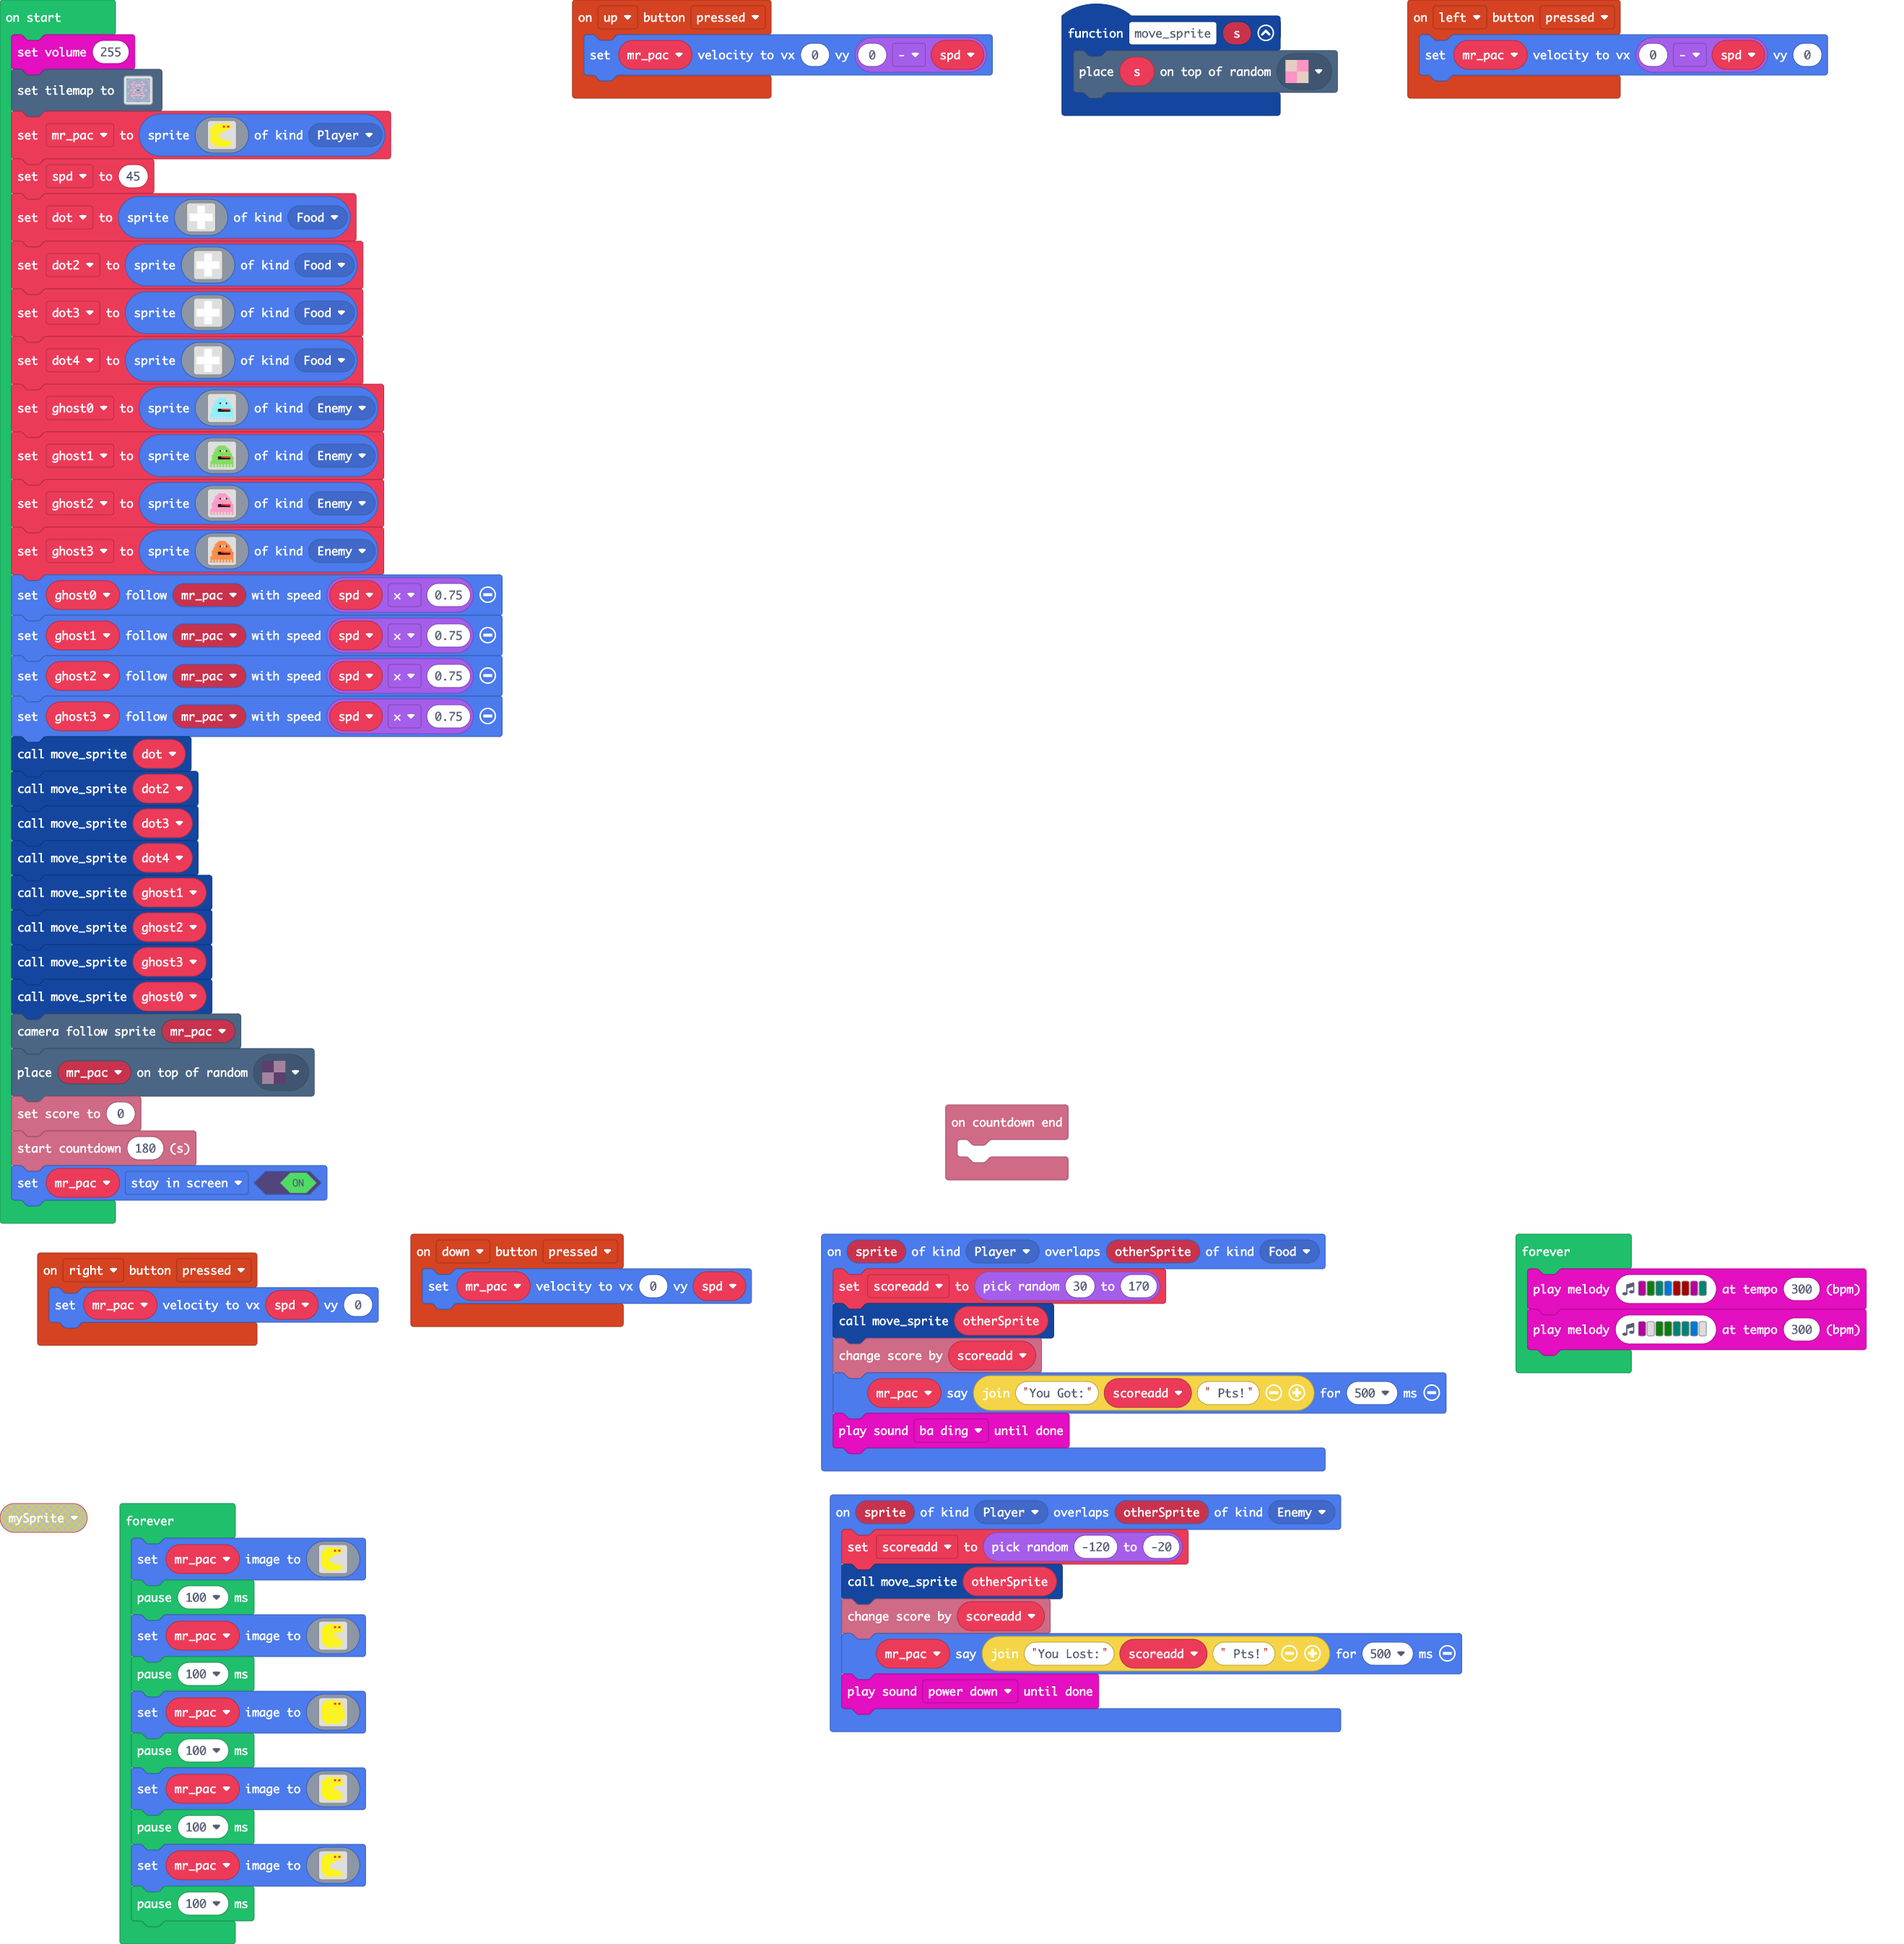
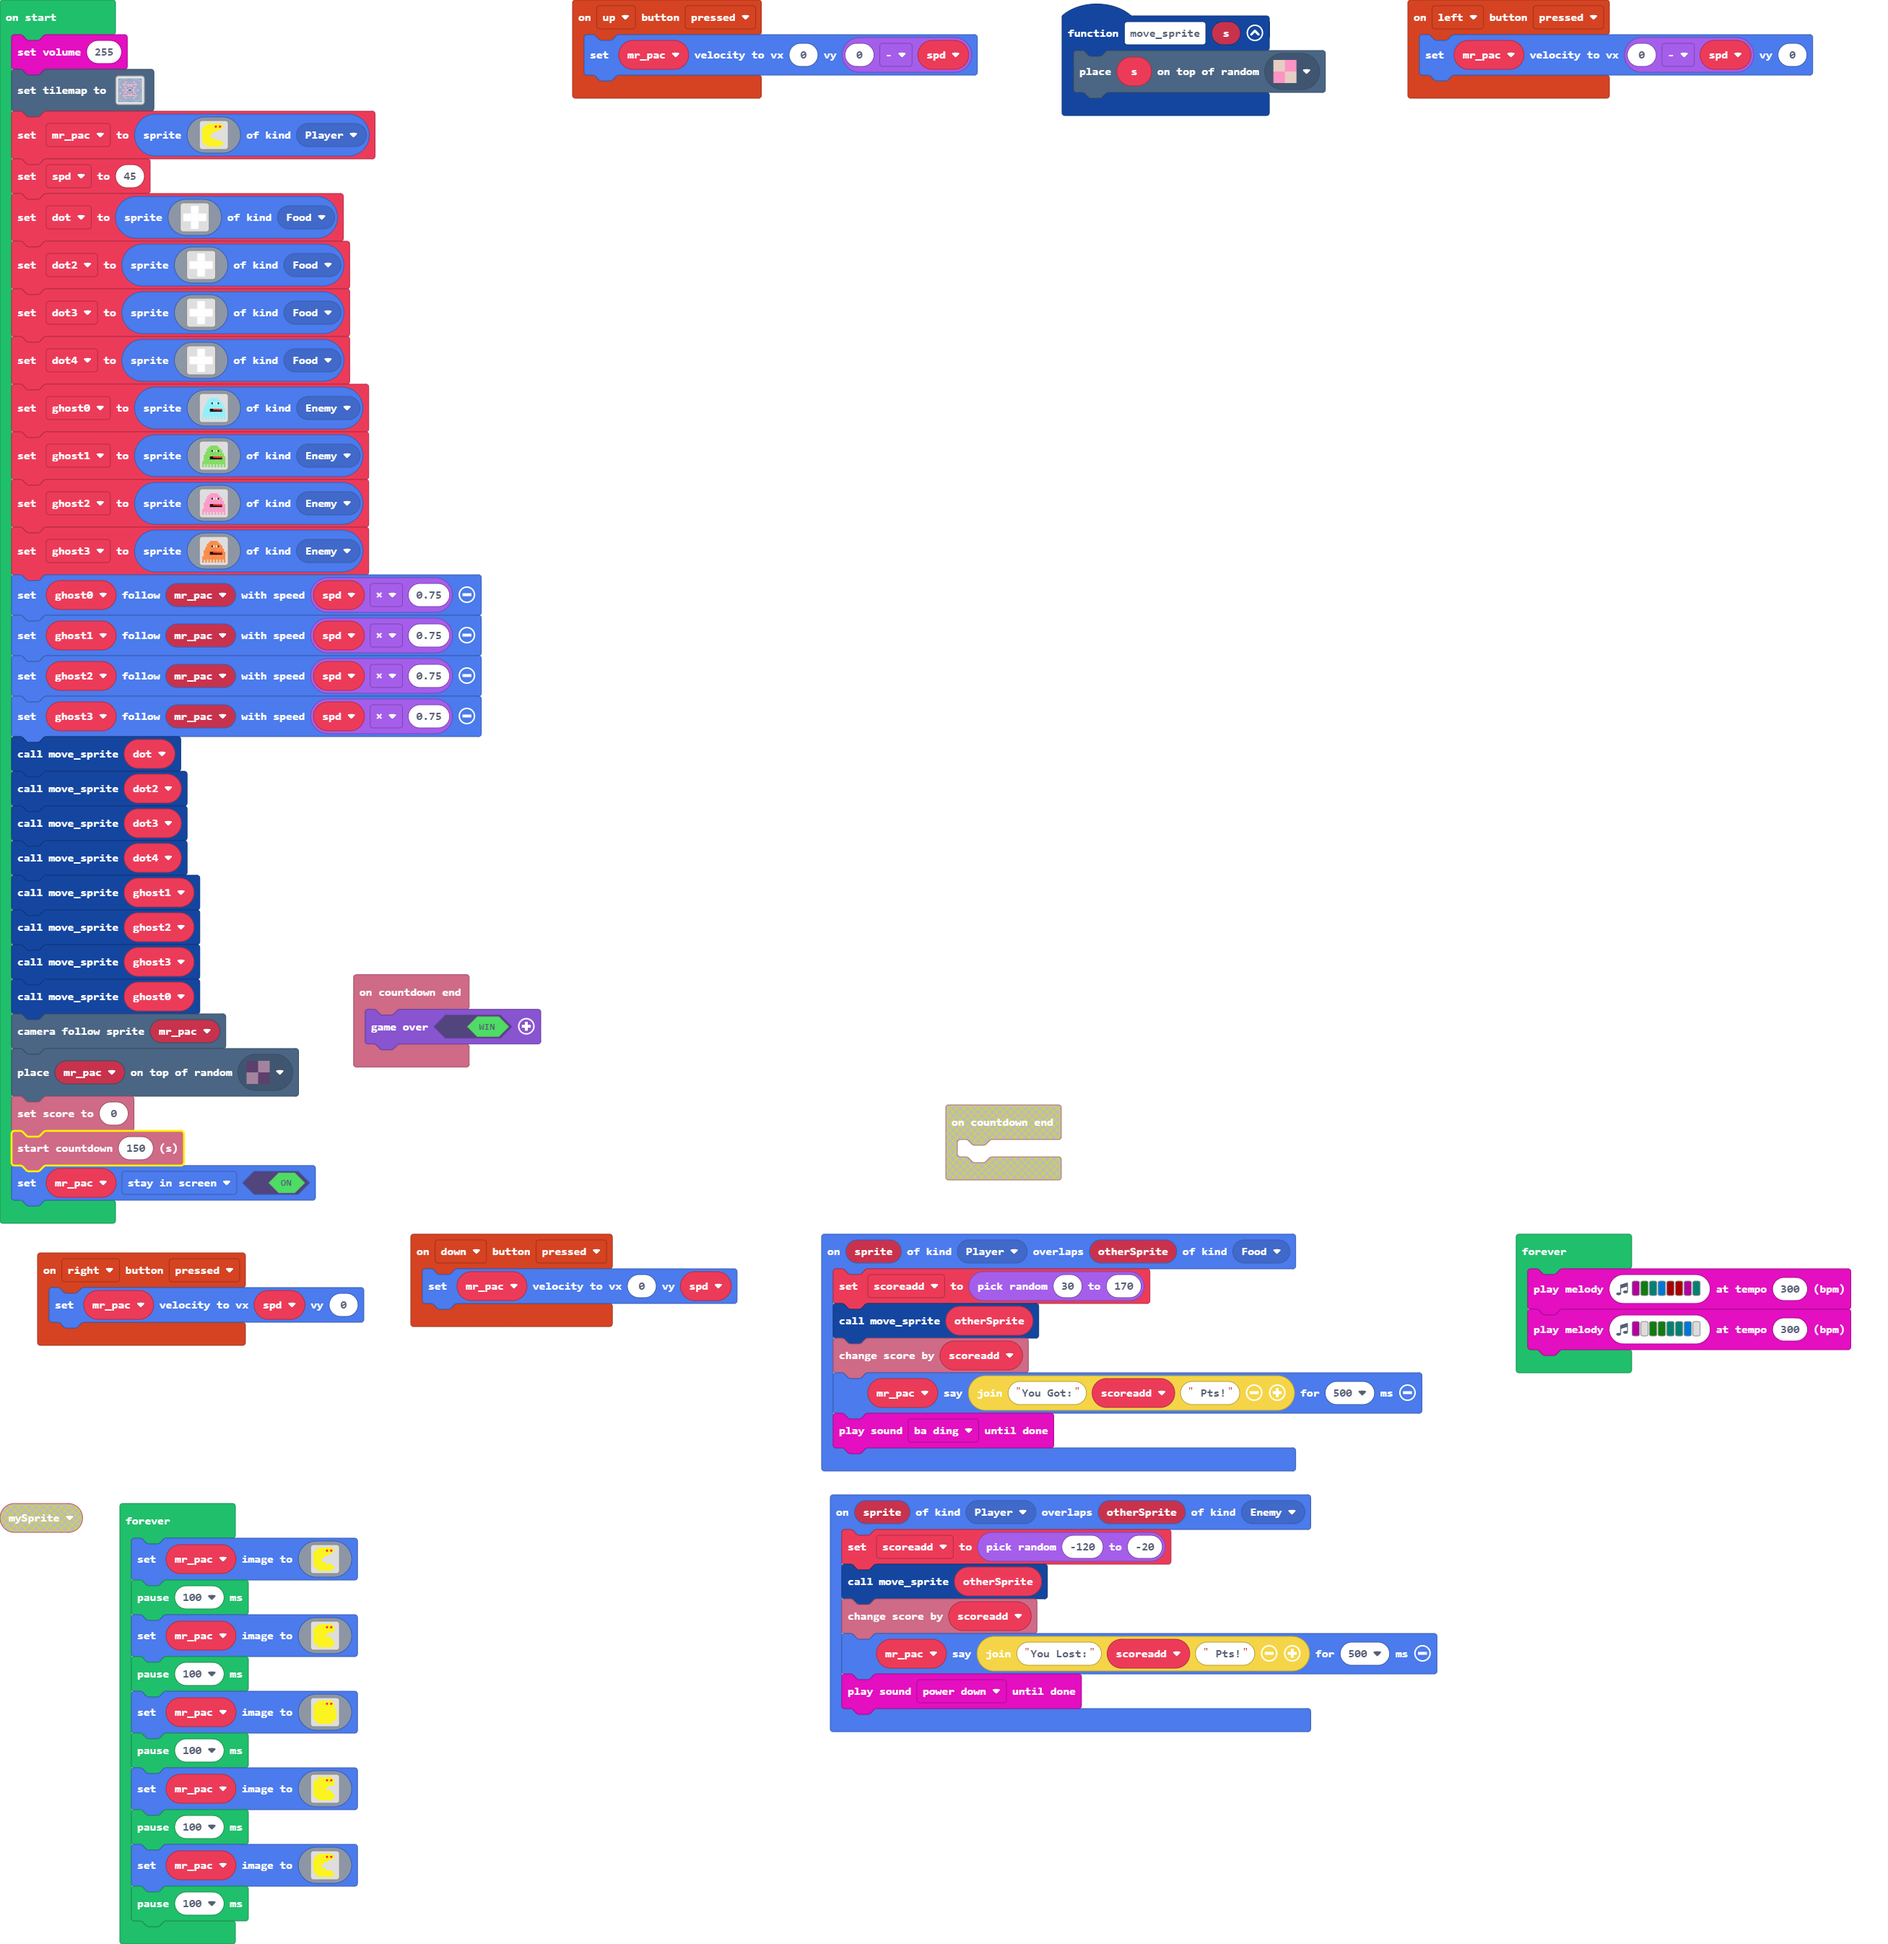
Update pxt.json, main.blocks, main.ts, tilemap.g.jres, tilemap.g.ts, images.g.jres, images.g.ts

diff --git a/tilemap.g.ts b/tilemap.g.ts
@@ -9,9 +9,10 @@ namespace myTiles {
     //% fixedInstance jres blockIdentity=images._tile
     export const tile3 = image.ofBuffer(hex``);
 
-    helpers.registerTilemapFactory(function(name: string) {
+    helpers._registerFactory("tilemap", function(name: string) {
         switch(helpers.stringTrim(name)) {
[1 lines of base64/hex data omitted]
+            case "level":
[1 lines of base64/hex data omitted]
 222222222222222222222222222222
 2............................2
 2..222222222222222222222222..2
@@ -42,8 +43,9 @@ namespace myTiles {
 2..222222222222222222222222..2
 2............................2
 222222222222222222222222222222
-`, [myTiles.transparency16,myTiles.tile2,myTiles.tile3,myTiles.tile1,myTiles.tile1], TileScale.Sixteen)
[1 lines of base64/hex data omitted]
+`, [myTiles.transparency16,myTiles.tile2,myTiles.tile3,myTiles.tile1,myTiles.tile1], TileScale.Sixteen);
+            case "level_0":
[1 lines of base64/hex data omitted]
 222222222222222222222222222222
 2............................2
 2..222222222222222222222222..2
@@ -74,7 +76,17 @@ namespace myTiles {
 2..222222222222222222222222..2
 2............................2
 222222222222222222222222222222
-`, [myTiles.transparency16,myTiles.tile2,myTiles.tile3,myTiles.tile1,myTiles.tile1], TileScale.Sixteen)
+`, [myTiles.transparency16,myTiles.tile2,myTiles.tile3,myTiles.tile1,myTiles.tile1], TileScale.Sixteen);
+        }
+        return null;
+    })
+
+    helpers._registerFactory("tile", function(name: string) {
+        switch(helpers.stringTrim(name)) {
+            case "transparency16":return transparency16;
+            case "tile1":return tile1;
+            case "tile2":return tile2;
+            case "tile3":return tile3;
         }
         return null;
     })

diff --git a/images.g.ts b/images.g.ts
@@ -1,0 +1,184 @@
+// Auto-generated code. Do not edit.
+namespace myImages {
+
+    helpers._registerFactory("image", function(name: string) {
+        switch(helpers.stringTrim(name)) {
+            case "image1":return img`
+. . 5 5 5 5 5 5 5 . . 
+. 5 5 5 5 5 2 5 2 5 . 
+5 5 5 5 5 5 5 5 5 . . 
+5 5 5 5 5 5 5 . . . . 
+5 5 5 5 5 . . . . . . 
+5 5 5 5 . . . . . . . 
+5 5 5 5 . . . . . . . 
+5 5 5 5 5 5 . . . . . 
+5 5 5 5 5 5 5 5 5 . . 
+. 5 5 5 5 5 5 5 5 5 . 
+. . 5 5 5 5 5 5 5 . . 
+`;
+            case "image2":return img`
+. . 5 5 5 5 5 5 5 . . 
+. 5 5 5 5 5 2 5 2 5 . 
+5 5 5 5 5 5 5 5 5 5 . 
+5 5 5 5 5 5 5 5 5 5 . 
+5 5 5 5 5 5 5 . . . . 
+5 5 5 5 5 5 . . . . . 
+5 5 5 5 5 5 5 5 . . . 
+5 5 5 5 5 5 5 5 5 . . 
+5 5 5 5 5 5 5 5 5 5 . 
+. 5 5 5 5 5 5 5 5 5 . 
+. . 5 5 5 5 5 5 5 . . 
+`;
+            case "image3":return img`
+. . 5 5 5 5 5 5 5 . . 
+. 5 5 5 5 5 2 5 2 5 . 
+5 5 5 5 5 5 5 5 5 . . 
+5 5 5 5 5 5 5 . . . . 
+5 5 5 5 5 . . . . . . 
+5 5 5 5 . . . . . . . 
+5 5 5 5 . . . . . . . 
+5 5 5 5 5 5 . . . . . 
+5 5 5 5 5 5 5 5 5 . . 
+. 5 5 5 5 5 5 5 5 5 . 
+. . 5 5 5 5 5 5 5 . . 
+`;
+            case "image4":return img`
+. . 5 5 5 5 5 5 5 . . 
+. 5 5 5 5 5 2 5 2 5 . 
+5 5 5 5 5 5 5 5 5 5 . 
+5 5 5 5 5 5 5 5 5 5 . 
+5 5 5 5 5 5 5 5 5 5 5 
+5 5 5 5 5 5 5 5 5 5 5 
+5 5 5 5 5 5 5 5 5 5 5 
+5 5 5 5 5 5 5 5 5 5 5 
+5 5 5 5 5 5 5 5 5 5 5 
+. 5 5 5 5 5 5 5 5 5 . 
+. . 5 5 5 5 5 5 5 . . 
+`;
+            case "image5":return img`
+. 1 . 
+1 1 1 
+. 1 . 
+`;
+            case "image6":return img`
+. 1 . 
+1 1 1 
+. 1 . 
+`;
+            case "image7":return img`
+. . 5 5 5 5 5 5 5 . . 
+. 5 5 5 5 5 2 5 2 5 . 
+5 5 5 5 5 5 5 5 5 5 . 
+5 5 5 5 5 5 5 5 5 5 . 
+5 5 5 5 5 5 5 . . . . 
+5 5 5 5 5 5 . . . . . 
+5 5 5 5 5 5 5 5 . . . 
+5 5 5 5 5 5 5 5 5 . . 
+5 5 5 5 5 5 5 5 5 5 . 
+. 5 5 5 5 5 5 5 5 5 . 
+. . 5 5 5 5 5 5 5 . . 
+`;
+            case "image8":return img`
+. 1 . 
+1 1 1 
+. 1 . 
+`;
+            case "image9":return img`
+. 1 . 
+1 1 1 
+. 1 . 
+`;
+            case "image10":return img`
+. . 5 5 5 5 5 5 5 . . 
+. 5 5 5 5 5 2 5 2 5 . 
+5 5 5 5 5 5 5 5 5 . . 
+5 5 5 5 5 5 5 . . . . 
+5 5 5 5 5 . . . . . . 
+5 5 5 5 . . . . . . . 
+5 5 5 5 . . . . . . . 
+5 5 5 5 5 5 . . . . . 
+5 5 5 5 5 5 5 5 5 . . 
+. 5 5 5 5 5 5 5 5 5 . 
+. . 5 5 5 5 5 5 5 . . 
+`;
+            case "image11":return img`
+. . . . . . . . . . . . . . . 
+. . . . . 9 9 9 9 9 . . . . . 
+. . . . 9 9 9 9 9 9 9 . . . . 
+. . . 9 9 9 9 9 9 9 9 9 . . . 
+. . . 9 9 9 f 1 9 1 f 9 9 . . 
+. . 9 9 9 9 9 9 9 9 9 9 9 . . 
+. . 9 9 9 9 9 9 9 9 9 9 9 9 . 
+. 9 9 9 9 9 9 9 9 9 9 9 9 9 . 
+. 9 9 9 9 f f 2 2 2 2 2 2 9 9 
+. 9 9 9 9 f f f f f f f f 9 9 
+. 9 9 9 9 9 9 9 9 9 9 9 9 9 9 
+9 9 9 9 9 9 9 9 9 9 9 9 9 9 9 
+9 9 9 9 9 9 9 9 9 9 9 9 9 9 9 
+9 . 9 . 9 . 9 . 9 . 9 . 9 . 9 
+9 . 9 . 9 . 9 . 9 . 9 . 9 . 9 
+`;
+            case "image12":return img`
+. . . . . . . . . . . . . . . 
+. . . . . 7 7 7 7 7 . . . . . 
+. . . . 7 7 7 7 7 7 7 . . . . 
+. . . 7 7 7 7 7 7 7 7 7 . . . 
+. . . 7 7 7 f 1 7 1 f 7 7 . . 
+. . 7 7 7 7 7 7 7 7 7 7 7 . . 
+. . 7 7 7 7 7 7 7 7 7 7 7 7 . 
+. 7 7 7 7 7 7 7 7 7 7 7 7 7 . 
+. 7 7 7 7 f f 2 2 2 2 2 2 7 7 
+. 7 7 7 7 f f f f f f f f 7 7 
+. 7 7 7 7 7 7 7 7 7 7 7 7 7 7 
+7 7 7 7 7 7 7 7 7 7 7 7 7 7 7 
+7 7 7 7 7 7 7 7 7 7 7 7 7 7 7 
+7 . 7 . 7 . 7 . 7 . 7 . 7 . 7 
+7 . 7 . 7 . 7 . 7 . 7 . 7 . 7 
+`;
+            case "image13":return img`
+. . . . . . . . . . . . . . . 
+. . . . . 3 3 3 3 3 . . . . . 
+. . . . 3 3 3 3 3 3 3 . . . . 
+. . . 3 3 3 3 3 3 3 3 3 . . . 
+. . . 3 3 3 f 1 3 1 f 3 3 . . 
+. . 3 3 3 3 3 3 3 3 3 3 3 . . 
+. . 3 3 3 3 3 3 3 3 3 3 3 3 . 
+. 3 3 3 3 3 3 3 3 3 3 3 3 3 . 
+. 3 3 3 3 f f 2 2 2 2 2 2 3 3 
+. 3 3 3 3 f f f f f f f f 3 3 
+. 3 3 3 3 3 3 3 3 3 3 3 3 3 3 
+3 3 3 3 3 3 3 3 3 3 3 3 3 3 3 
+3 3 3 3 3 3 3 3 3 3 3 3 3 3 3 
+3 . 3 . 3 . 3 . 3 . 3 . 3 . 3 
+3 . 3 . 3 . 3 . 3 . 3 . 3 . 3 
+`;
+            case "image14":return img`
+. . . . . . . . . . . . . . . 
+. . . . . 4 4 4 4 4 . . . . . 
+. . . . 4 4 4 4 4 4 4 . . . . 
+. . . 4 4 4 4 4 4 4 4 4 . . . 
+. . . 4 4 4 f 1 4 1 f 4 4 . . 
+. . 4 4 4 4 4 4 4 4 4 4 4 . . 
+. . 4 4 4 4 4 4 4 4 4 4 4 4 . 
+. 4 4 4 4 4 4 4 4 4 4 4 4 4 . 
+. 4 4 4 4 f f 2 2 2 2 2 2 4 4 
+. 4 4 4 4 f f f f f f f f 4 4 
+. 4 4 4 4 4 4 4 4 4 4 4 4 4 4 
+4 4 4 4 4 4 4 4 4 4 4 4 4 4 4 
+4 4 4 4 4 4 4 4 4 4 4 4 4 4 4 
+4 . 4 . 4 . 4 . 4 . 4 . 4 . 4 
+4 . 4 . 4 . 4 . 4 . 4 . 4 . 4 
+`;
+        }
+        return null;
+    })
+
+    helpers._registerFactory("animation", function(name: string) {
+        switch(helpers.stringTrim(name)) {
+
+        }
+        return null;
+    })
+
+}
+// Auto-generated code. Do not edit.

diff --git a/main.ts b/main.ts
@@ -2,13 +2,13 @@ controller.up.onEvent(ControllerButtonEvent.Pressed, function () {
     mr_pac.setVelocity(0, 0 - spd)
 })
 function move_sprite (s: Sprite) {
-    tiles.placeOnRandomTile(s, myTiles.tile3)
+    tiles.placeOnRandomTile(s, assets.tile`tile3`)
 }
 controller.left.onEvent(ControllerButtonEvent.Pressed, function () {
     mr_pac.setVelocity(0 - spd, 0)
 })
 info.onCountdownEnd(function () {
-	
+    game.over(true)
 })
 controller.right.onEvent(ControllerButtonEvent.Pressed, function () {
     mr_pac.setVelocity(spd, 0)
@@ -150,9 +150,9 @@ move_sprite(ghost2)
 move_sprite(ghost3)
 move_sprite(ghost0)
 scene.cameraFollowSprite(mr_pac)
-tiles.placeOnRandomTile(mr_pac, myTiles.tile1)
+tiles.placeOnRandomTile(mr_pac, assets.tile`tile1`)
 info.setScore(0)
-info.startCountdown(180)
+info.startCountdown(150)
 mr_pac.setFlag(SpriteFlag.StayInScreen, true)
 forever(function () {
     music.playMelody("C G F E C5 C5 C F ", 300)
